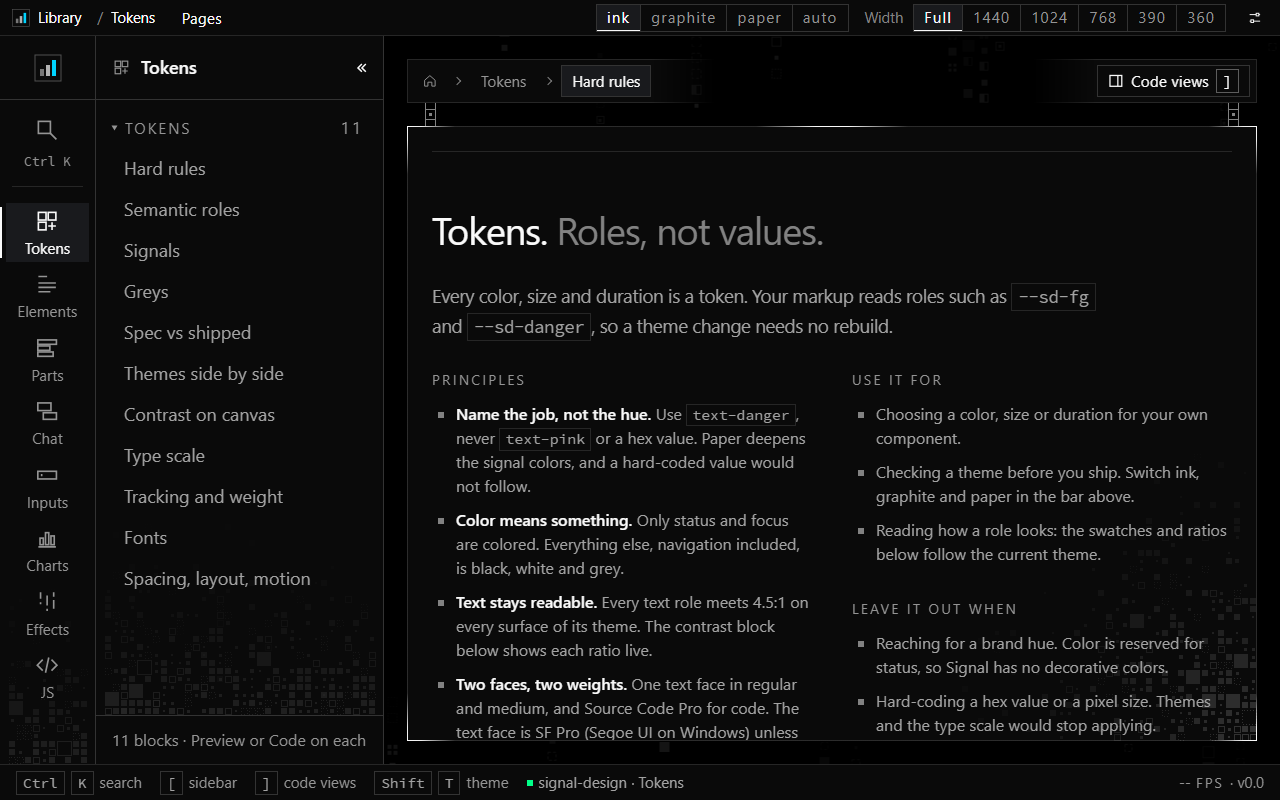
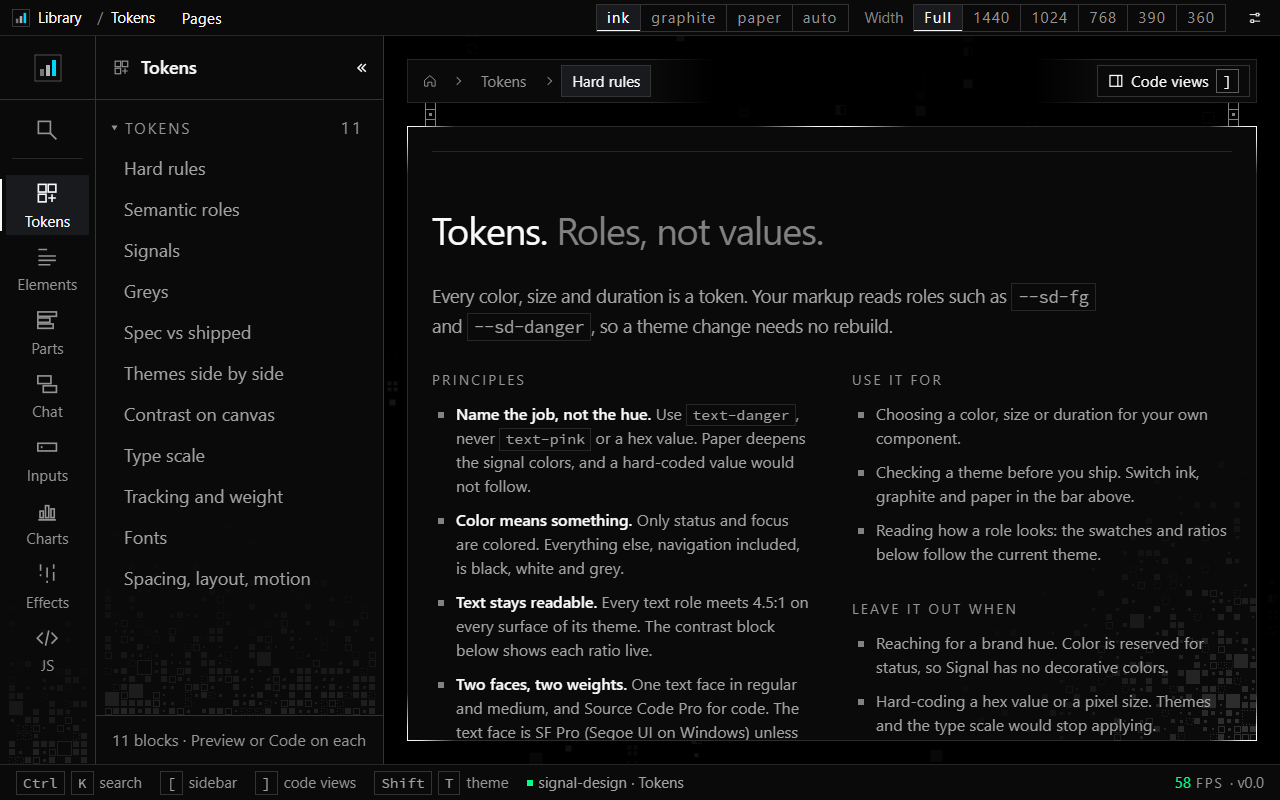
Leave the rail room to spare so it fits on Linux fonts too
The rail's page list fit at 1024x768 with zero pixels to spare, so the
Linux CI runners' fallback font tipped it into scrolling and failed the
bar check in Chromium and WebKit. The search item's visible "Ctrl K"
label made it the tallest item, and on the Inputs page Ctrl K opens that
page's own palette, so the label was wrong there anyway. The label moves
to a tooltip that names the shortcut only where it applies, freeing 28px.
The bar check now requires 16px of spare height, so a near miss fails
locally instead of only in CI.

Changed region(s): [[0.0, 0.1875, 0.0625, 0.7188], [0.0312, 0.75, 0.0625, 0.8438], [0.9062, 0.9688, 0.9375, 1.0]]

diff --git a/showcase/layout-plugin.js b/showcase/layout-plugin.js
@@ -40,7 +40,7 @@ function rail(page) {
   ).join("\n");
   return `  <nav class="sd-rail" id="shell-rail" aria-label="Library" data-sd-ornaments="bottom" data-sd-ornaments-size="200">
     <a class="sd-rail-home" href="./${HOME.file}" aria-label="Signal home"${current(page === HOME)}><svg class="sd-mark"><use href="#i-mark"/></svg></a>
-    <button class="sd-rail-item" style="margin-top:8px" data-sd-open="nav-palette"{{search_key}} aria-label="Search (Ctrl K)"><svg><use href="#i-search"/></svg><span><kbd>Ctrl K</kbd></span></button>
+    <button class="sd-rail-item" style="margin-top:8px" data-sd-open="nav-palette"{{search_key}} data-sd-tip="{{search_label}}" data-sd-tip-side="right" aria-label="{{search_label}}"><svg><use href="#i-search"/></svg></button>
     <div class="sd-rail-sep" style="margin-block:8px"></div>
     <div class="sd-rail-list">
 ${items}
@@ -150,6 +150,7 @@ export function renderPage(page, html) {
     crumb: page === HOME ? "Signal" : content.match(/<h3 class="sd-label">([^<]*)</)?.[1] ?? page.title,
     // A page whose own content has a command palette keeps Ctrl K for it.
     search_key: own ? "" : ' data-sd-key="mod+k"',
+    search_label: own ? "Go to a page" : "Go to a page (Ctrl K)",
     rail: rail(page),
     sidebar: sidebar(page),
     aside: library ? aside : "",
